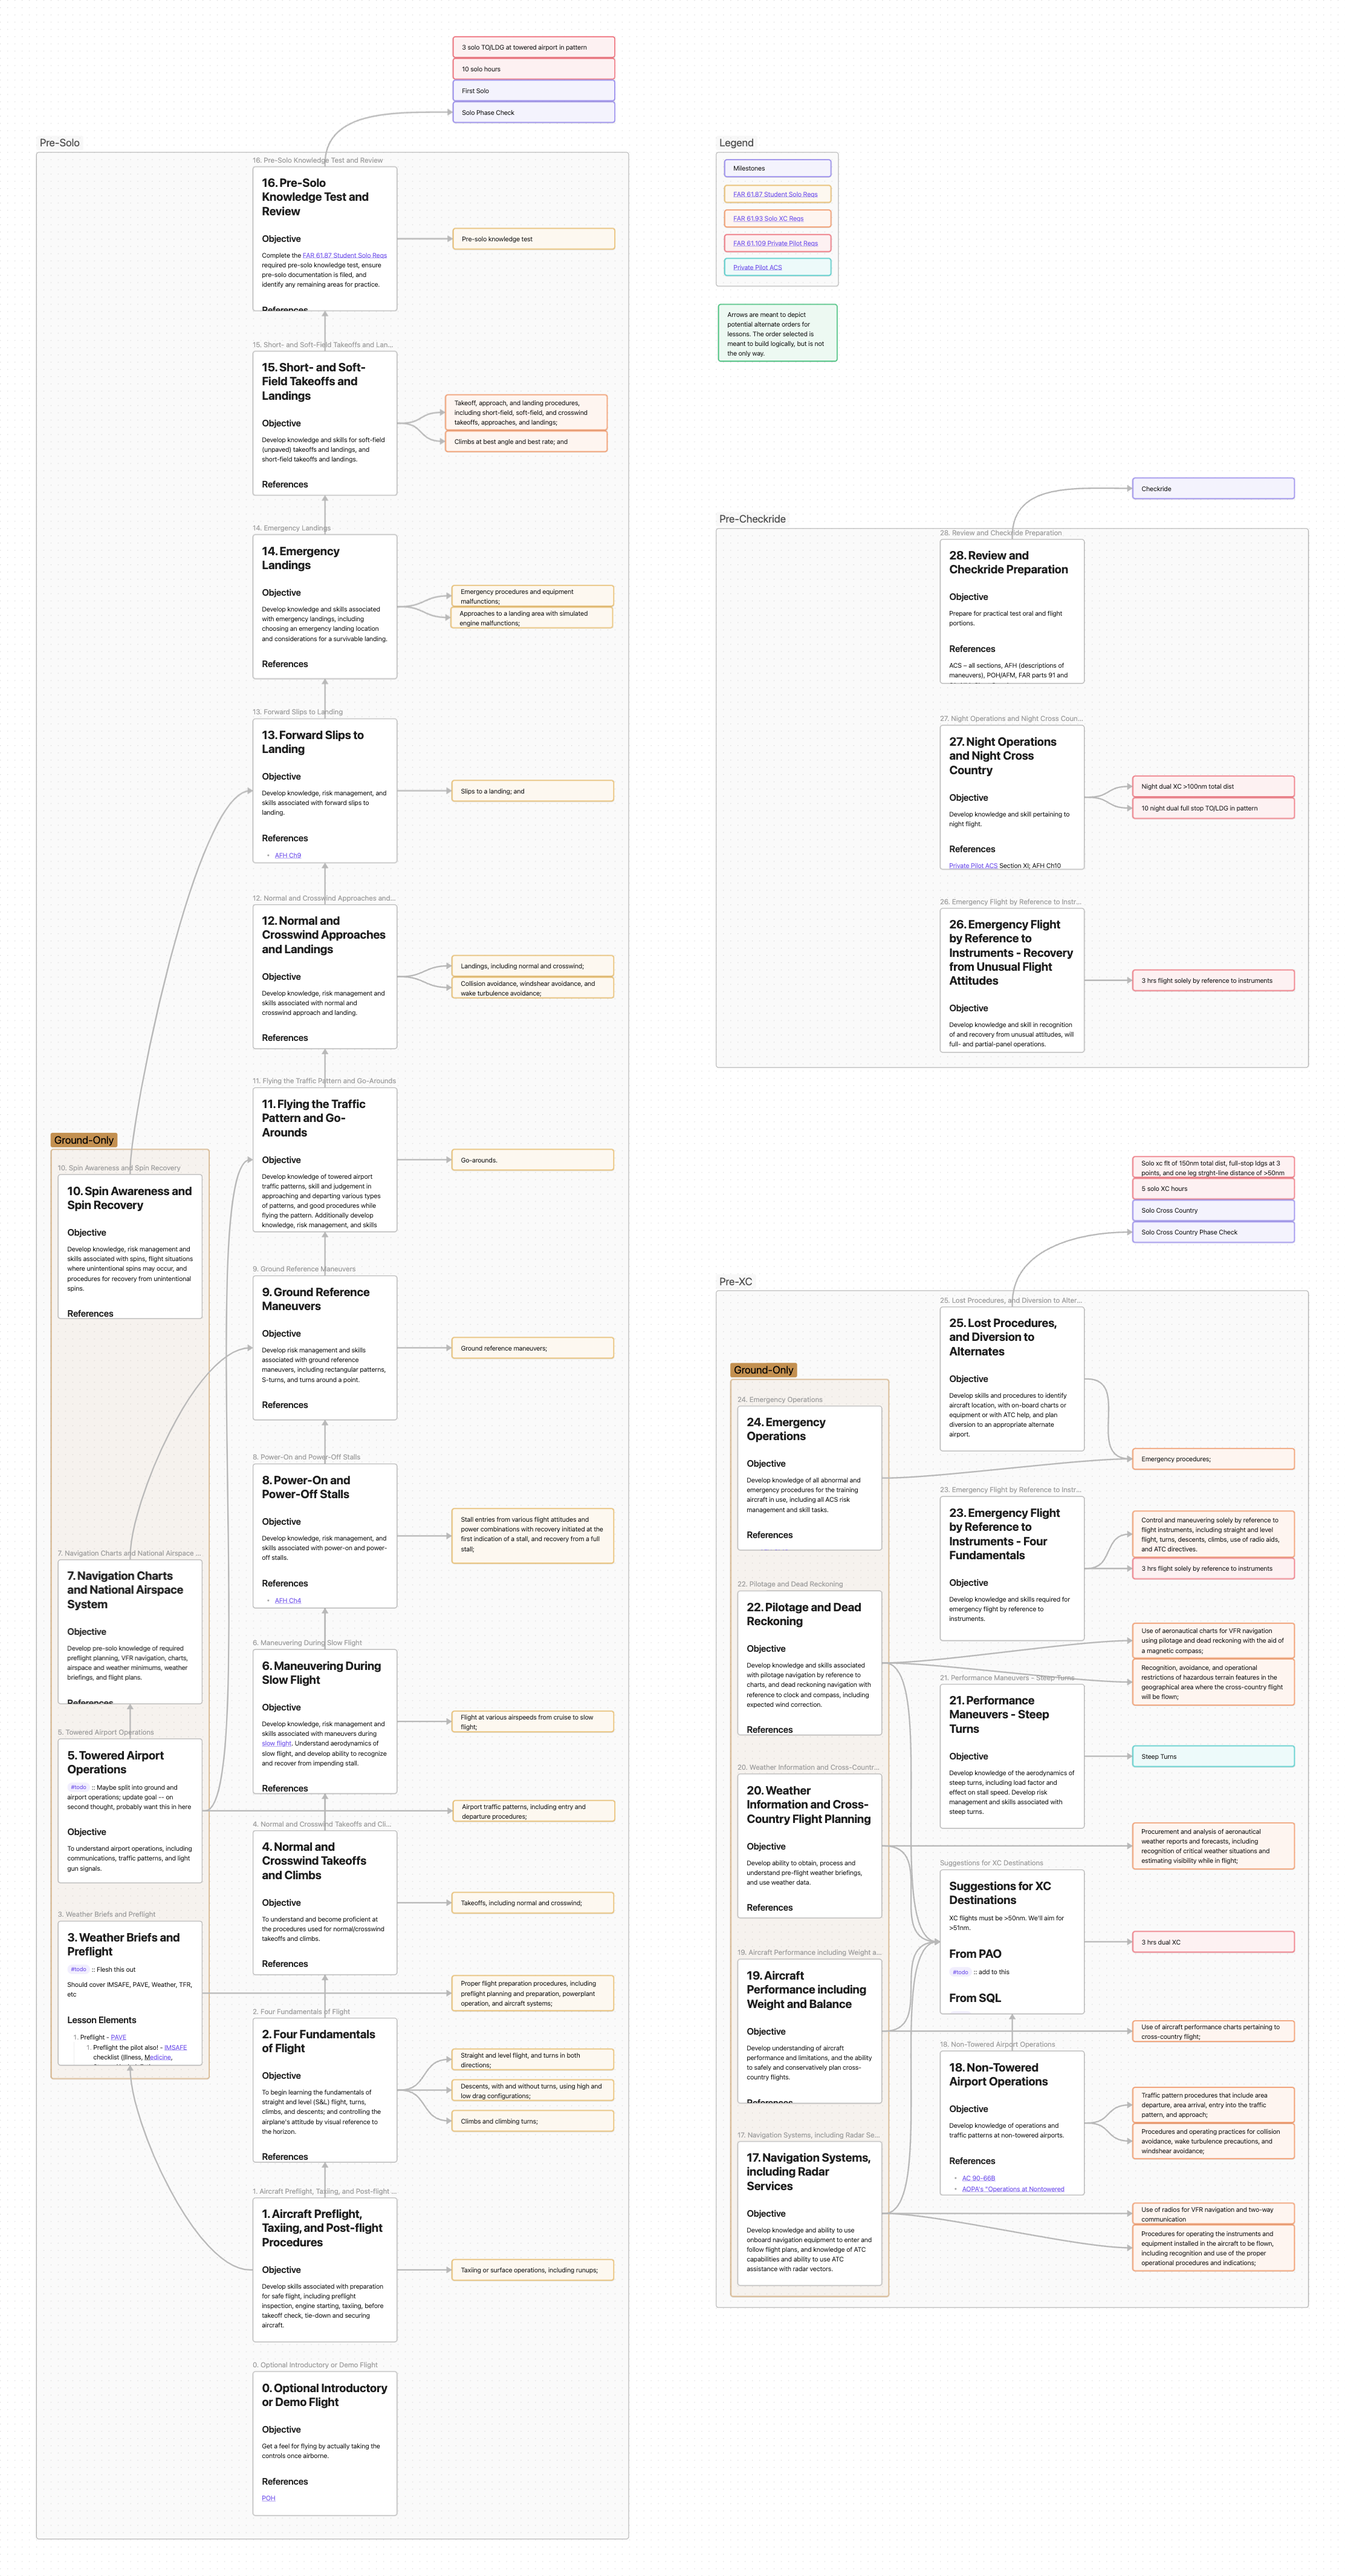
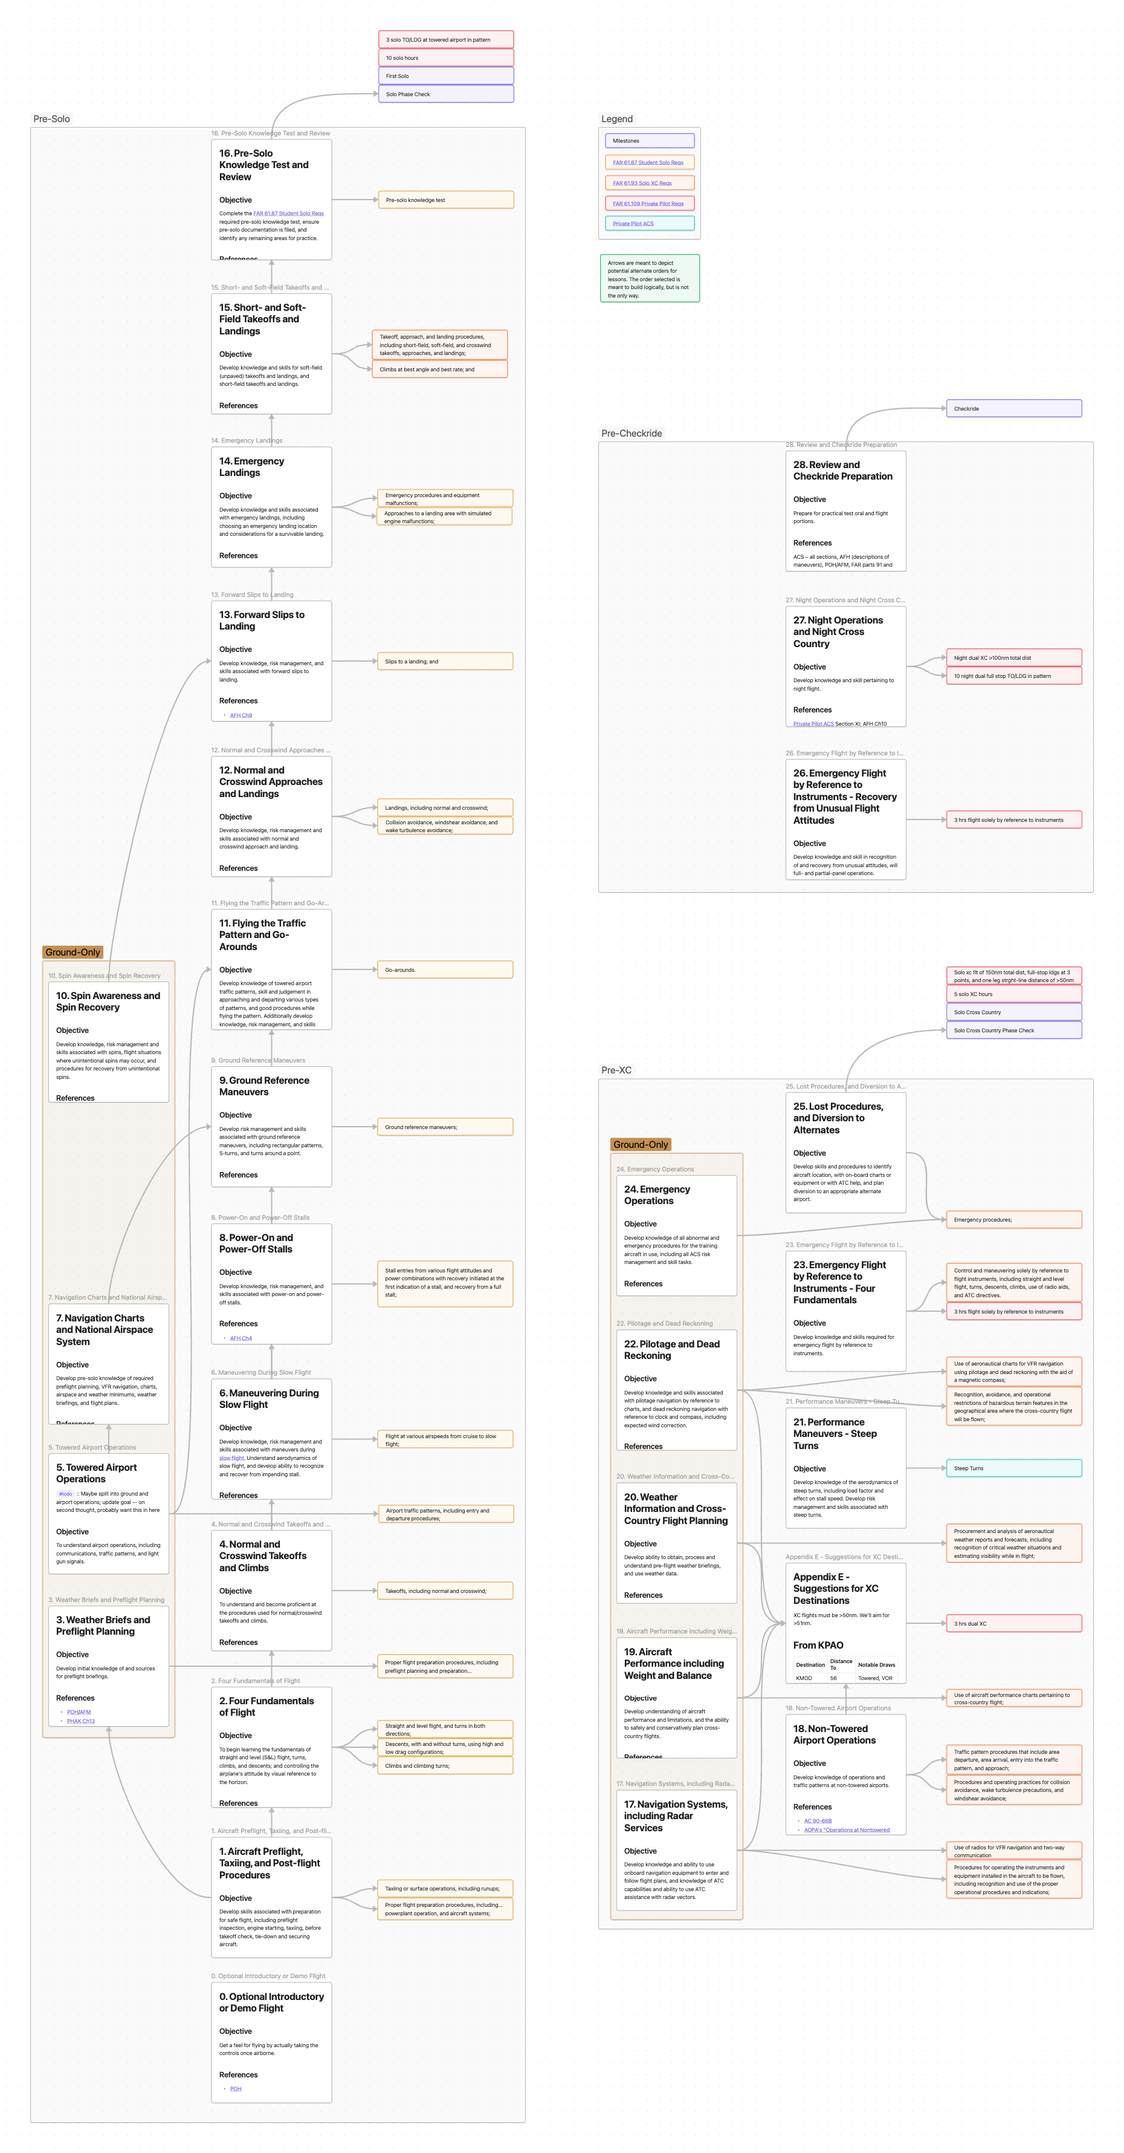
vault backup: 2023-10-16 19:13:51

diff --git a/+ Recently Updated.md b/+ Recently Updated.md
@@ -5,17 +5,21 @@
     - [[Lesson Plans/Private/1. Aircraft Preflight, Taxiing, and Post-flight Procedures.md|1. Aircraft Preflight, Taxiing, and Post-flight Procedures]]
     - [[Lesson Plans/Private/16. Pre-Solo Knowledge Test and Review.md|16. Pre-Solo Knowledge Test and Review]]
     - [[Lesson Plans/Private/14. Emergency Landings.md|14. Emergency Landings]]
+    - [[Lesson Plans/Private/17. Navigation Systems, including Radar Services.md|17. Navigation Systems, including Radar Services]]
     - [[Lesson Plans/Private/19. Aircraft Performance including Weight and Balance.md|19. Aircraft Performance including Weight and Balance]]
     - [[Lesson Plans/Private/2. Four Fundamentals of Flight.md|2. Four Fundamentals of Flight]]
     - [[Lesson Plans/Private/20. Weather Information and Cross-Country Flight Planning.md|20. Weather Information and Cross-Country Flight Planning]]
+    - [[Lesson Plans/Private/28. Review and Checkride Preparation.md|28. Review and Checkride Preparation]]
     - [[Lesson Plans/Private/4. Normal and Crosswind Takeoffs and Climbs.md|4. Normal and Crosswind Takeoffs and Climbs]]
     - [[Lesson Plans/Private/5. Towered Airport Operations.md|5. Towered Airport Operations]]
     - [[Lesson Plans/Private/7. Navigation Charts and National Airspace System.md|7. Navigation Charts and National Airspace System]]
     - [[Lesson Plans/Private/8. Power-On and Power-Off Stalls.md|8. Power-On and Power-Off Stalls]]
-    - [[Appendix E - Suggestions for XC Destinations|Appendix E - Suggestions for XC Destinations]]
     - [[Lesson Plans/Private/~ Complete PPL Syllabus.md|~ Complete PPL Syllabus]]
     - [[Lesson Plans/Private/~ PPL Lesson Plan Outline.md|~ PPL Lesson Plan Outline]]
     - [[Lesson Plans/Private/3. Weather Briefs and Preflight Planning.md|3. Weather Briefs and Preflight Planning]]
+    - [[Lesson Plans/Private/Appendix C - When to Acquire Various Equipment.md|Appendix C - When to Acquire Various Equipment]]
+    - [[Lesson Plans/Private/Appendix D - Suggestions for Solo Flight Practice.md|Appendix D - Suggestions for Solo Flight Practice]]
+    - [[Lesson Plans/Private/Appendix E - Suggestions for XC Destinations.md|Appendix E - Suggestions for XC Destinations]]
     - [[Filed/Forces in Stabilized Flight.md|Forces in Stabilized Flight]]
     - [[Filed/Maneuver - Four Fundamentals.md|Maneuver - Four Fundamentals]]
     - [[Filed/PHAK Ch13.md|PHAK Ch13]]
@@ -23,6 +27,8 @@
     - [[Filed/Private Pilot ACS.md|Private Pilot ACS]]
     - [[Filed/Finding an AME.md|Finding an AME]]
     - [[Filed/PIREP.md|PIREP]]
+    - [[Filed/Light Gun Signals.md|Light Gun Signals]]
+    - [[Templates/Dataview to Obsidian Publish/Update Publish Files.md|Update Publish Files]]
 
 - October 15, 2023: 
     - [[Lesson Plans/Private/Appendix A - Part 61 Private Pilot Training Requirements.md|Appendix A - Part 61 Private Pilot Training Requirements]]
@@ -55,7 +61,6 @@
     - [[Filed/Air Trek North FOI Flashcards.md|Air Trek North FOI Flashcards]]
     - [[Filed/Aircraft Documents to be Legal.md|Aircraft Documents to be Legal]]
     - [[Filed/Aircraft Inspections to be Legal.md|Aircraft Inspections to be Legal]]
-    - [[Appendix C - When to Acquire Various Equipment|Appendix C - When to Acquire Various Equipment]]
     - [[Filed/Aviation Instructors Responsibilty.md|Aviation Instructors Responsibilty]]
     - [[Filed/Barriers to Effective Communication.md|Barriers to Effective Communication]]
     - [[Filed/Basic Elements of Communication.md|Basic Elements of Communication]]
@@ -128,7 +133,6 @@
     - [[Media/Aircraft/C152/C152 GAIT and Datasheet.md|C152 GAIT and Datasheet]]
     - [[Media/Aircraft/PA28-181/PA28-181 MPH Gait and Datasheet.md|PA28-181 MPH Gait and Datasheet]]
     - [[Media/Aircraft/MSFS/README.md|README]]
-    - [[Templates/Dataview to Obsidian Publish/Update Publish Files.md|Update Publish Files]]
     - [[~ Start Here.md|~ Start Here]]
 
 - October 11, 2023: 
@@ -137,7 +141,6 @@
     - [[Lesson Plans/Private/11. Flying the Traffic Pattern and Go-Arounds.md|11. Flying the Traffic Pattern and Go-Arounds]]
     - [[Lesson Plans/Private/12. Normal and Crosswind Approaches and Landings.md|12. Normal and Crosswind Approaches and Landings]]
     - [[Lesson Plans/Private/13. Forward Slips to Landing.md|13. Forward Slips to Landing]]
-    - [[Lesson Plans/Private/17. Navigation Systems, including Radar Services.md|17. Navigation Systems, including Radar Services]]
     - [[Lesson Plans/Private/18. Non-Towered Airport Operations.md|18. Non-Towered Airport Operations]]
     - [[Lesson Plans/Private/22. Pilotage and Dead Reckoning.md|22. Pilotage and Dead Reckoning]]
     - [[Lesson Plans/Private/24. Emergency Operations.md|24. Emergency Operations]]

diff --git a/Lesson Plans/Private/28. Review and Checkride Preparation.md b/Lesson Plans/Private/28. Review and Checkride Preparation.md
@@ -6,7 +6,11 @@ tags: ppl, lesson
 Prepare for practical test oral and flight portions.
 
 ### References
-ACS – all sections, AFH (descriptions of maneuvers), POH/AFM, FAR parts 91 and 61, AIM, Chart Supplements
+- [[Private Pilot ACS]] – all sections
+- [[AFH]] (descriptions of maneuvers), [[POH]]/[[AFM]]
+- [[FAR]] Parts 91 and 61
+- [[AIM]]
+- Chart Supplements
 
 ### Builds On
 [[~ PPL Lesson Plan Outline|All Lessons]]
@@ -16,13 +20,13 @@ Ground 3 hours, Flight as necessary
 
 ### Lesson Elements
 1. Thorough review of ACS
-2. Choice of DPE and location of checkride
+2. Choice of [[DPE]] and location of checkride
 	1. May require DPE to be scheduled months in advance!
 3. Practice for oral potion of practical test
 	1. Good video, showing DPE’s expectations for checkride, especially oral portion (Andy Munnis, DPE): https://www.youtube.com/watch?v=zVEgIeZUpk
 	2. Books available for preparation
 	3. Practice oral exams with other students and instructors
-4. Practical test maneuvers to practice and polish
+4. Practical test maneuvers to practice and polish - [[Appendix D - Suggestions for Solo Flight Practice]]
 	1. Takeoffs, landings, go-arounds, including short-and soft-field techniques, and forward slips to landing
 	2. Steep turns and ground reference maneuvers: rectangular patterns, turns-around-a-point, and S-turns-across-a-road
 	3. Cross-country -- diversion and lost procedures

diff --git a/Lesson Plans/Private/Appendix E - Suggestions for XC Destinations.md b/Lesson Plans/Private/Appendix E - Suggestions for XC Destinations.md
@@ -25,3 +25,4 @@ XC flights must be >50nm. We'll aim for >51nm.
 | L53         | 56          | Short Field                                                                                                                          |
 | 1C9         | ~~50~~      | Grass Runway (Note: distance too short for XC logging)                                                                               |
 
+*Return to [[~ PPL Lesson Plan Outline|Table of Contents]]^*

diff --git a/Lesson Plans/Private/~ PPL Lesson Plan Outline.md b/Lesson Plans/Private/~ PPL Lesson Plan Outline.md
@@ -58,4 +58,4 @@ based-on: DietzPrivateAirplaneSyllabus2018TOC.pdf
 
 ### Blocks of Learning
 ![[~ PPL Blocks of Learning.png]]
-> [!warning] This image is manually updated and may not match the latest lesson plans. It was last updated on Oct 15, 2023.
+> [!warning] This image is manually updated and may not match the latest lesson plans. It was last updated on Oct 16, 2023.

diff --git a/Lesson Plans/Private/Appendix D - Suggestions for Solo Flight Practice.md b/Lesson Plans/Private/Appendix D - Suggestions for Solo Flight Practice.md
@@ -3,3 +3,6 @@
 
 Nearing Checkride:
 - Practice everything from the [[All Maneuvers Quick Reference]], making sure to understand and achieve [[ACS]] standards.
+
+
+*Return to [[~ PPL Lesson Plan Outline|Table of Contents]]^*

diff --git a/Lesson Plans/Private/Appendix C - When to Acquire Various Equipment.md b/Lesson Plans/Private/Appendix C - When to Acquire Various Equipment.md
@@ -18,3 +18,5 @@ Before Starting XC:
 Before Night Flights:
 - Headlamp with red light
 - Backup flashlight (preferably red)
+
+*Return to [[~ PPL Lesson Plan Outline|Table of Contents]]^*
